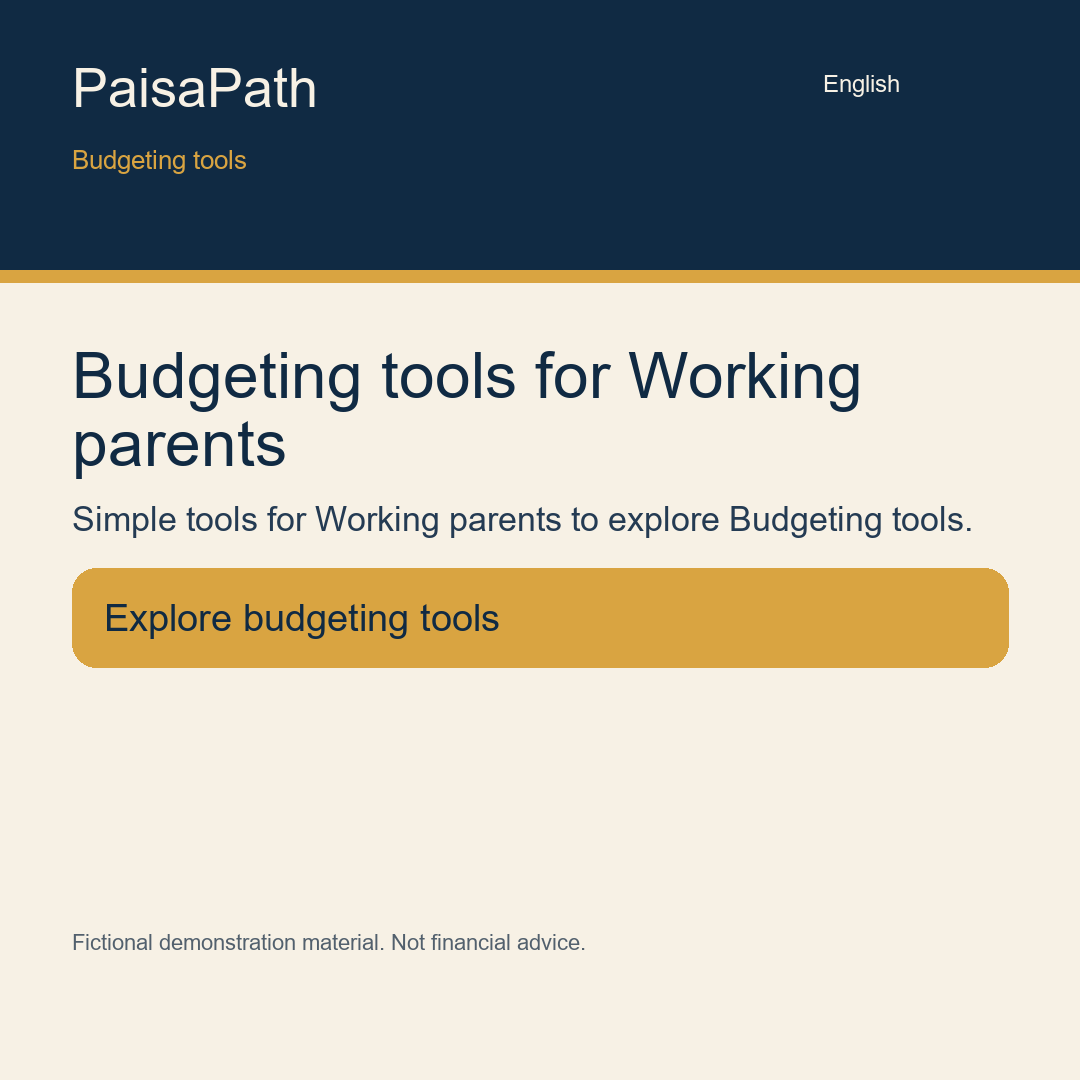
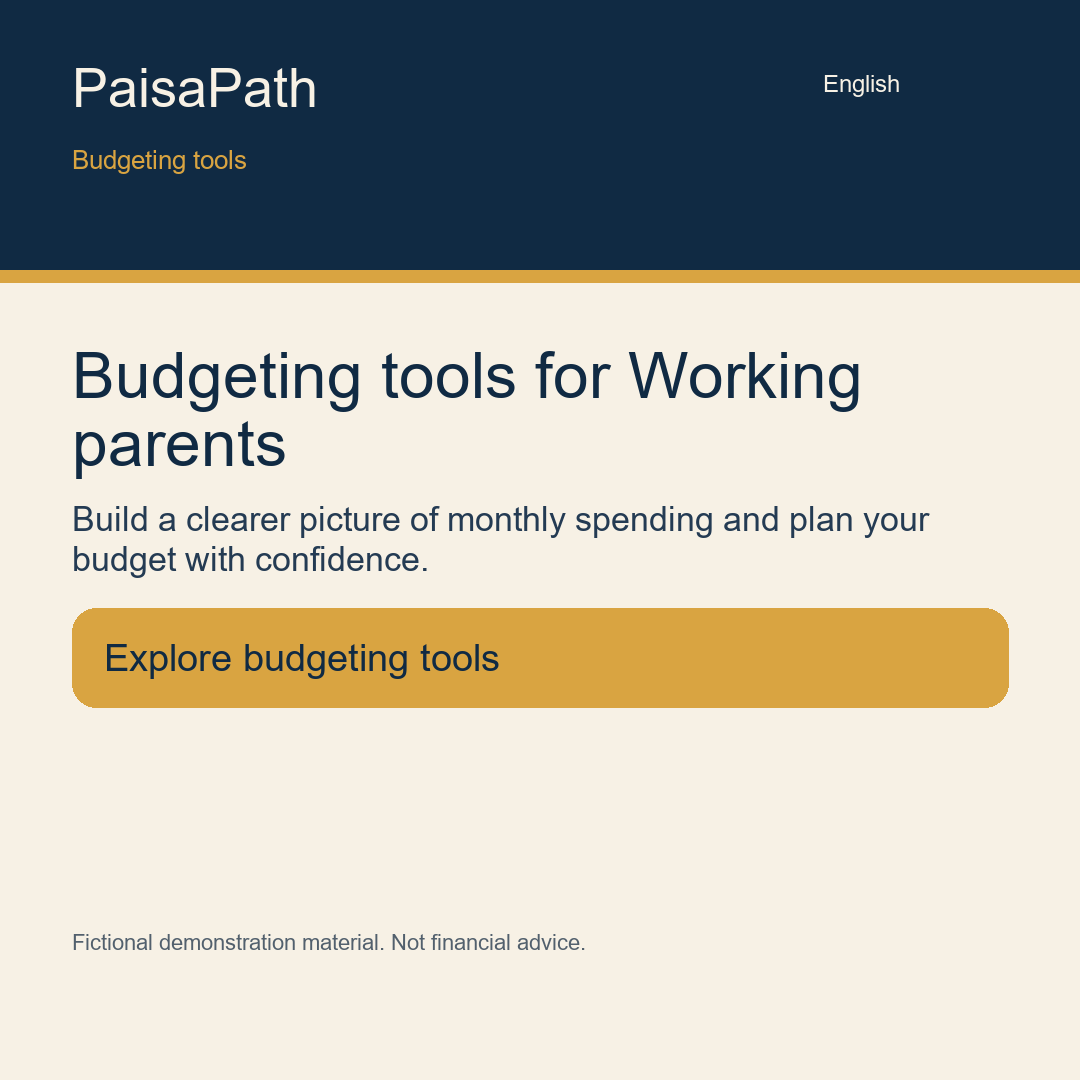
Improve creative copy and update QA records

Changed region(s): [[0.0611, 0.4583, 0.9472, 0.6722]]

diff --git a/app/content_generator.py b/app/content_generator.py
@@ -38,7 +38,35 @@ def prepare_copy(specification: Mapping[str, object]) -> dict[str, object]:
     offer = values["offer"]
     if language == "English":
         headline = f"{product} for {audience}"
-        body = f"Simple tools for {audience} to explore {product}."
+
+        product_benefits = {
+            "Budgeting tools": (
+                "Build a clearer picture of monthly spending "
+                "and plan your budget with confidence."
+            ),
+            "Money planning": (
+                "Understand your monthly expenses and develop "
+                "a practical approach to managing money."
+            ),
+            "Personal loan education": (
+                "Learn about borrowing basics, repayment terms, "
+                "and the costs to consider before taking a loan."
+            ),
+            "Insurance education": (
+                "Understand common insurance terms and learn "
+                "what to consider when comparing coverage."
+            ),
+            "Investing basics": (
+                "Learn about investment fundamentals, different "
+                "options, and the importance of informed decisions."
+            ),
+        }
+
+        body = product_benefits.get(
+            product,
+            f"Explore the basics of {product.lower()} "
+            "and learn about the options available."
+        )
     elif language == "Hindi":
         headline, body = _hindi_copy(product, audience)
     else:
